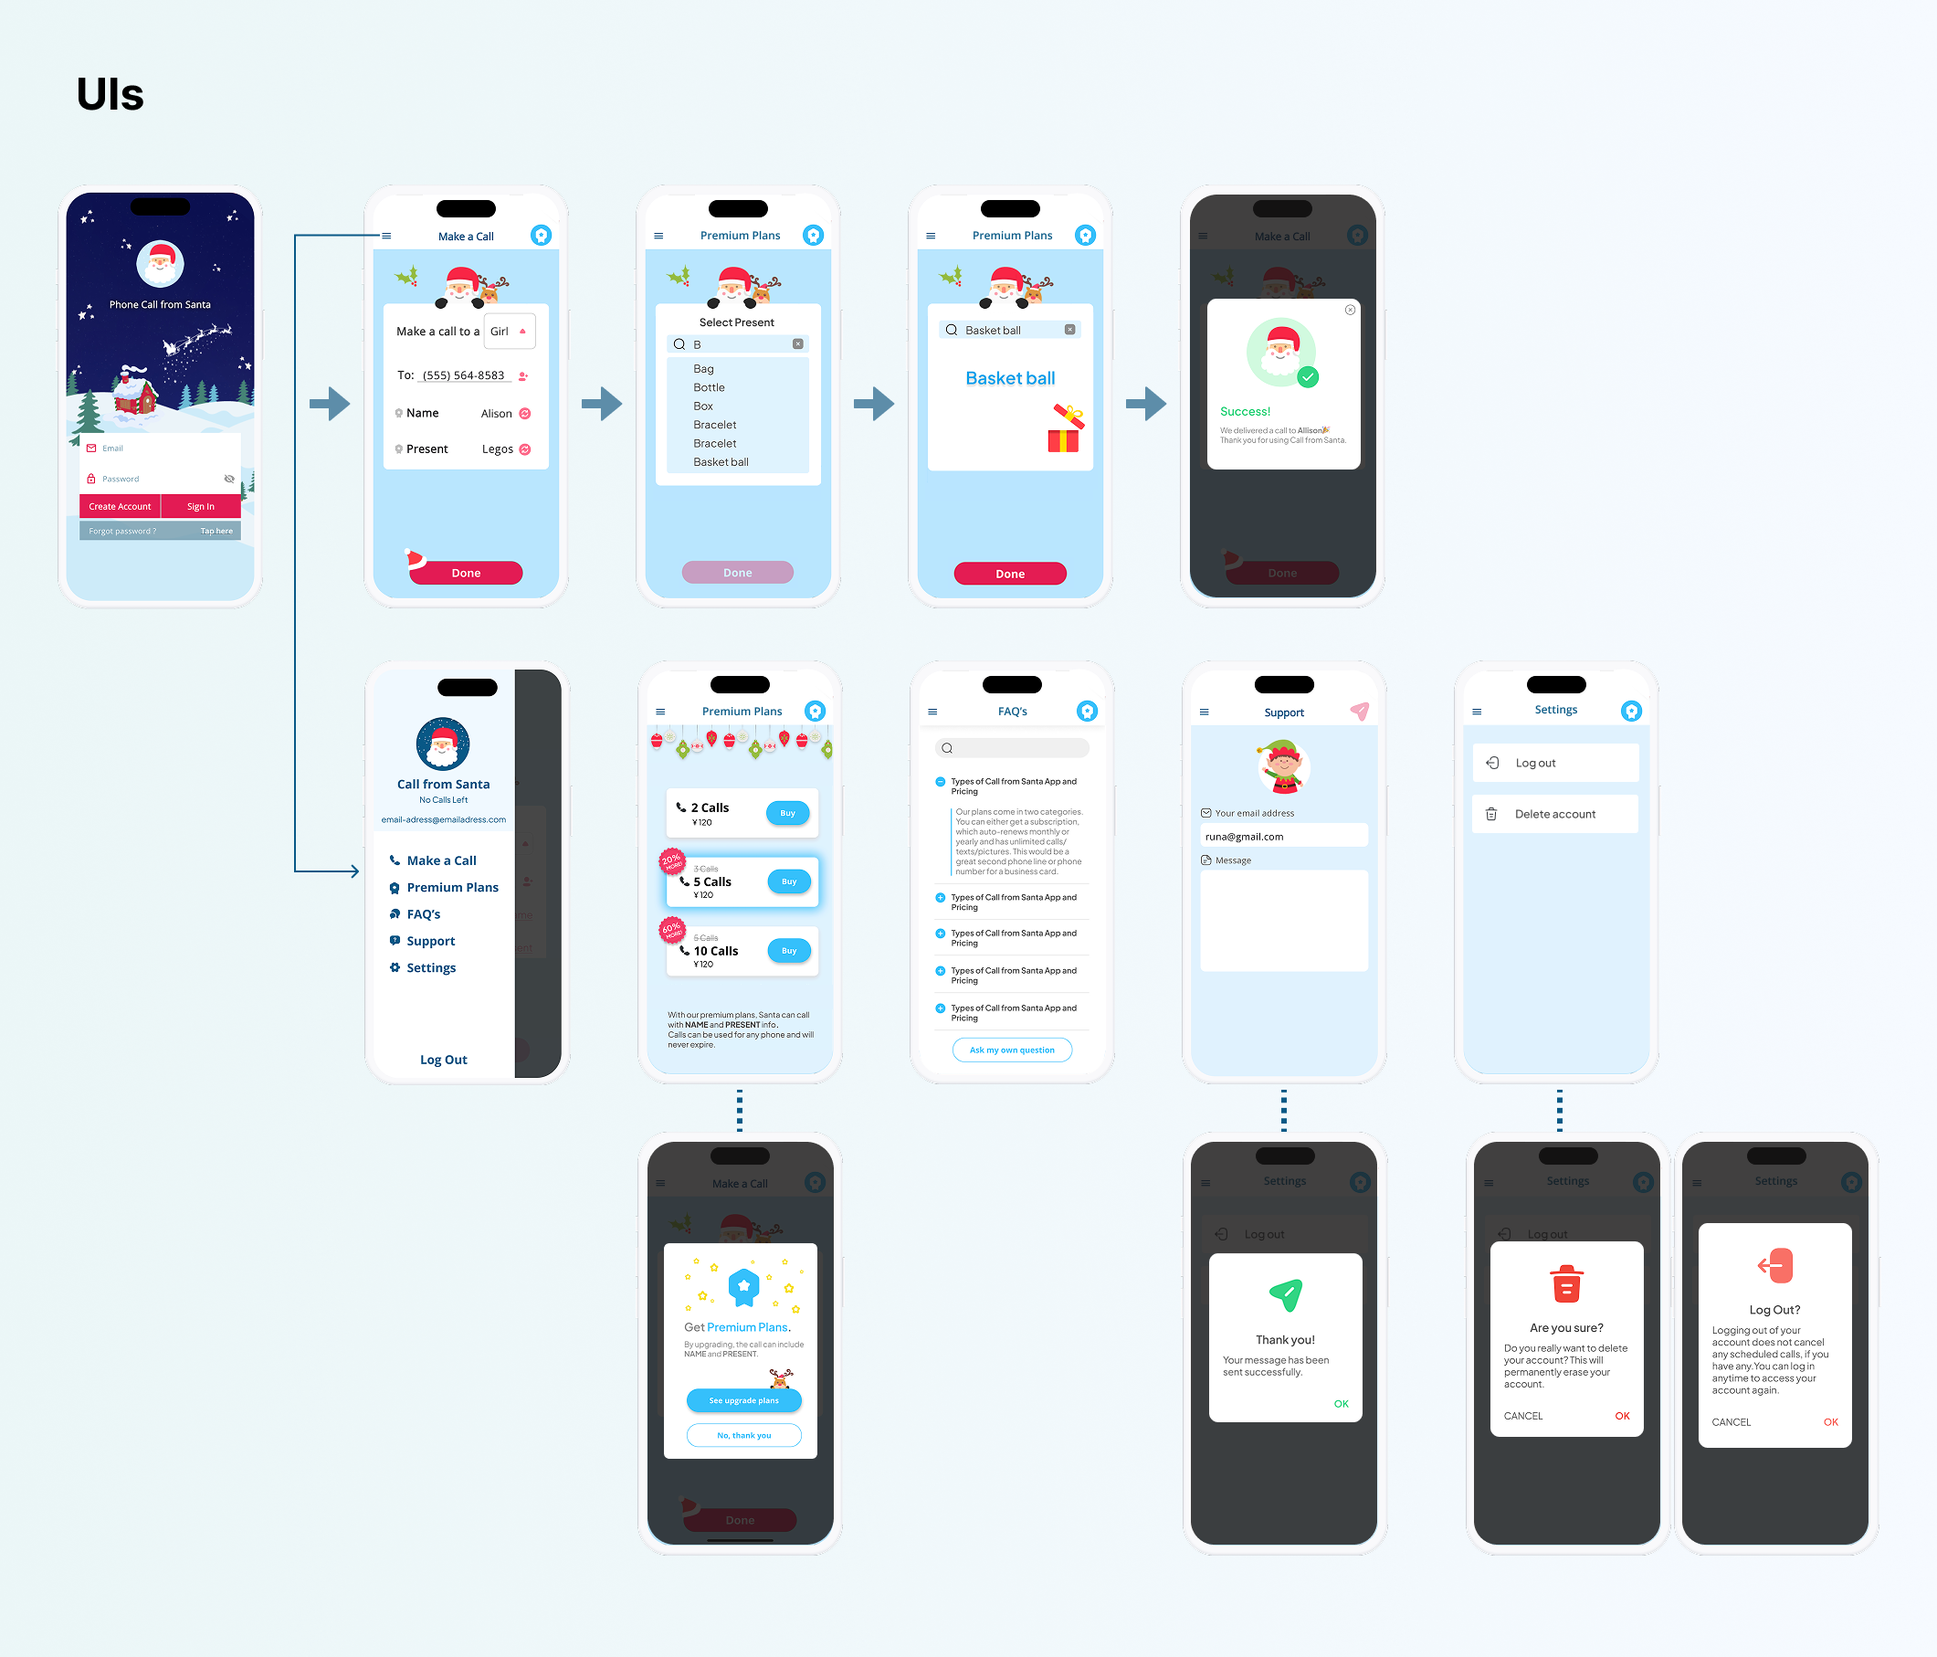
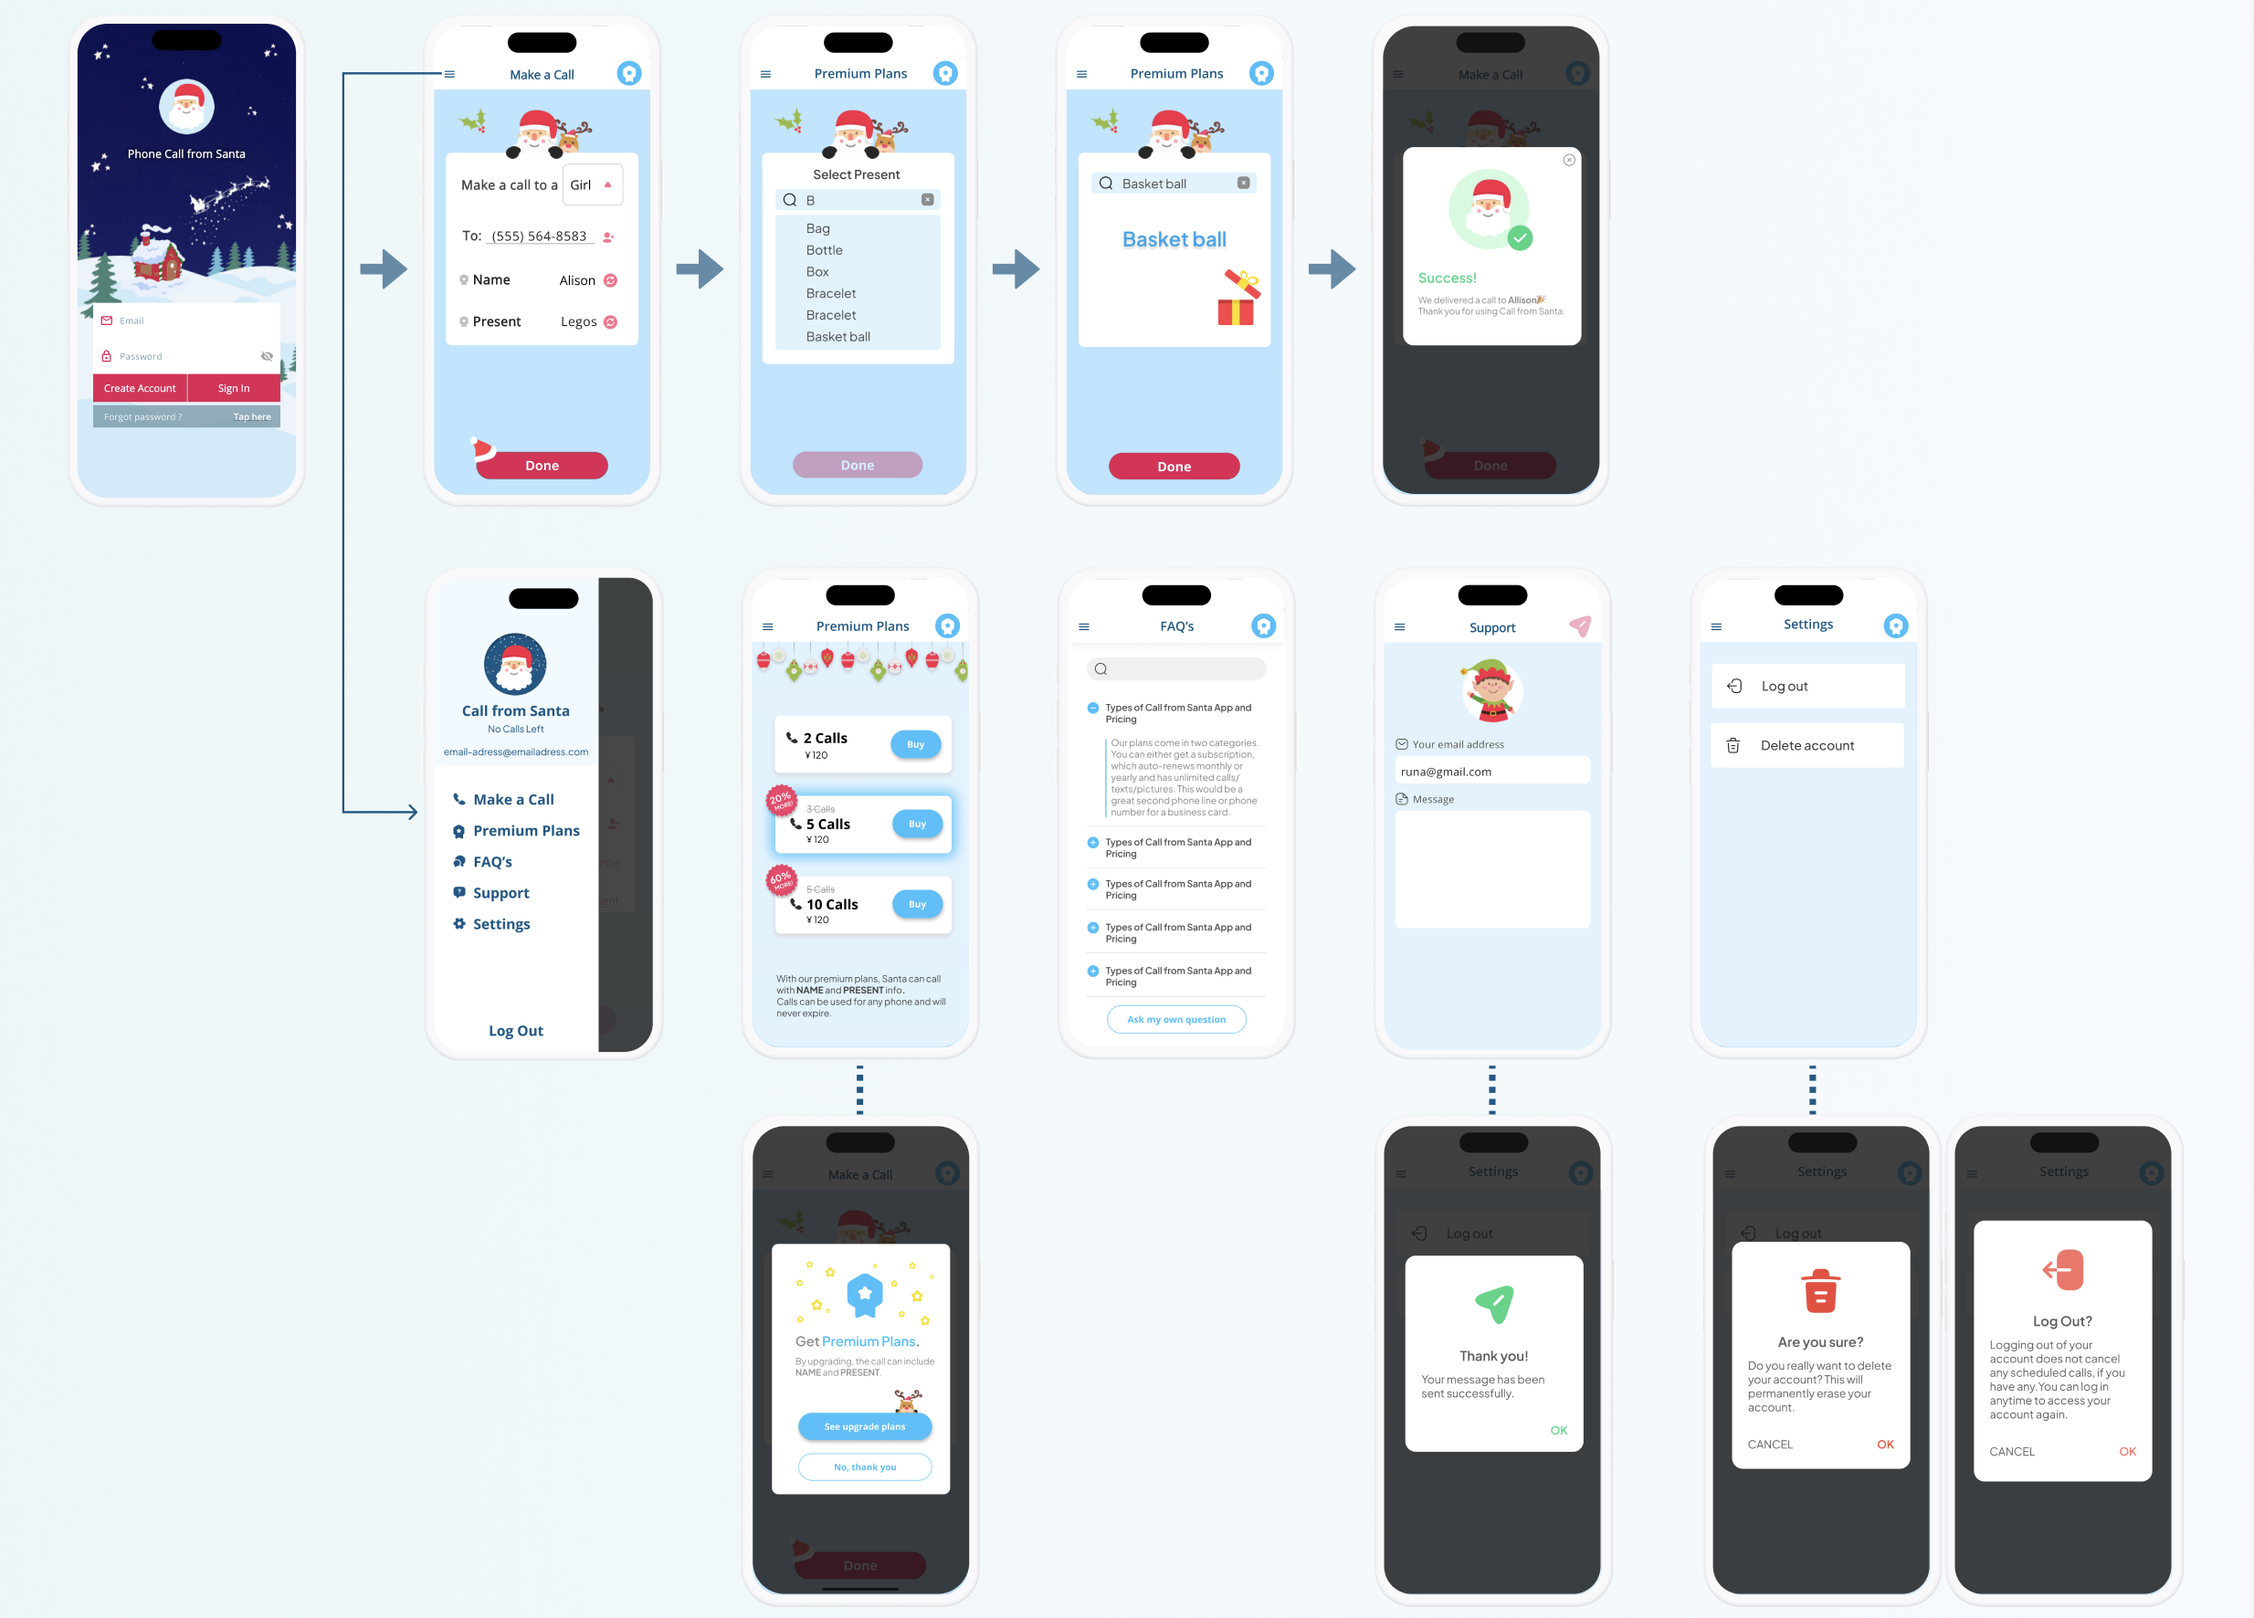
chante p img size

diff --git a/santa.html b/santa.html
@@ -139,7 +139,10 @@
                     </div>
                   </div>
                  
-                  <div class="w-full pt-10 hover-none">
+                  <h1 class="text-[#252525] pt-20 px-10 pb-2 text-5xl font-black leading-tight tracking-[-0.033em] @[480px]:text-4xl @[480px]:font-black @[480px]:leading-tight @[480px]:tracking-[-0.033em] @[320px]:text-2xl @[320px]:pt-10">
+                    UI
+                    </h1>
+                  <div class="w-full pt-4 px-10 hover-none">
                     <img src="images/santa/uis.png" alt="Featured Work Image" class="w-full h-auto ">
                   </div>
 
